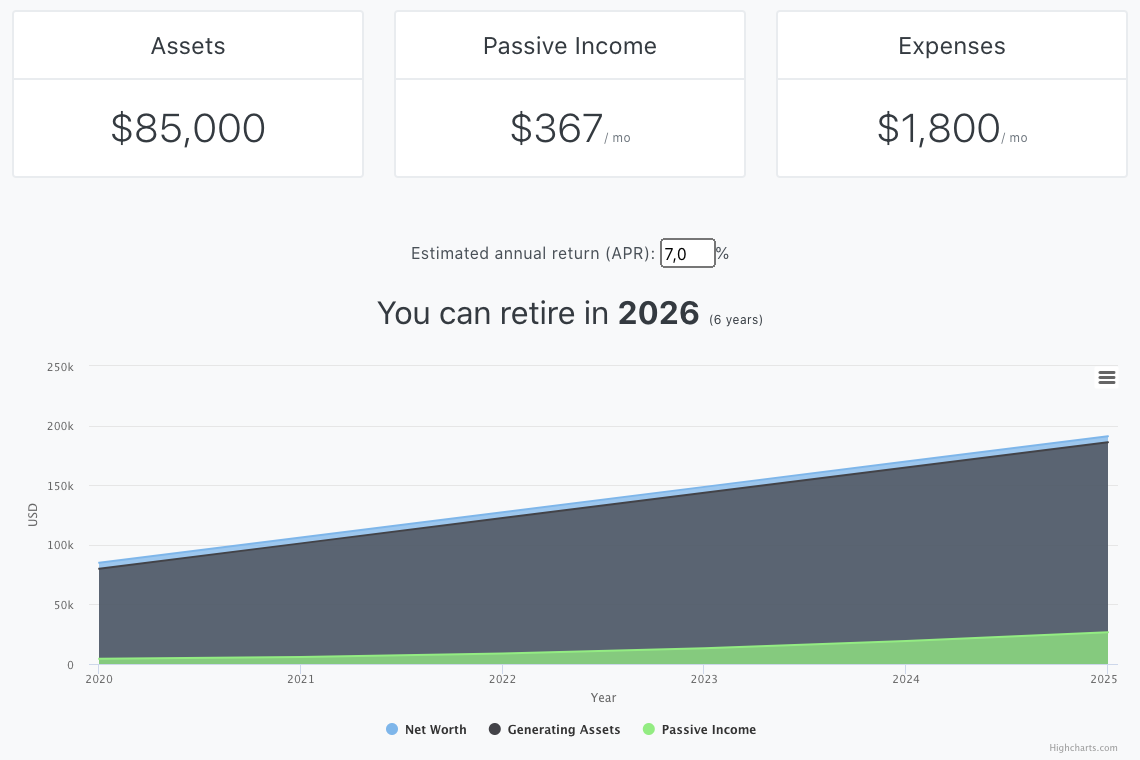
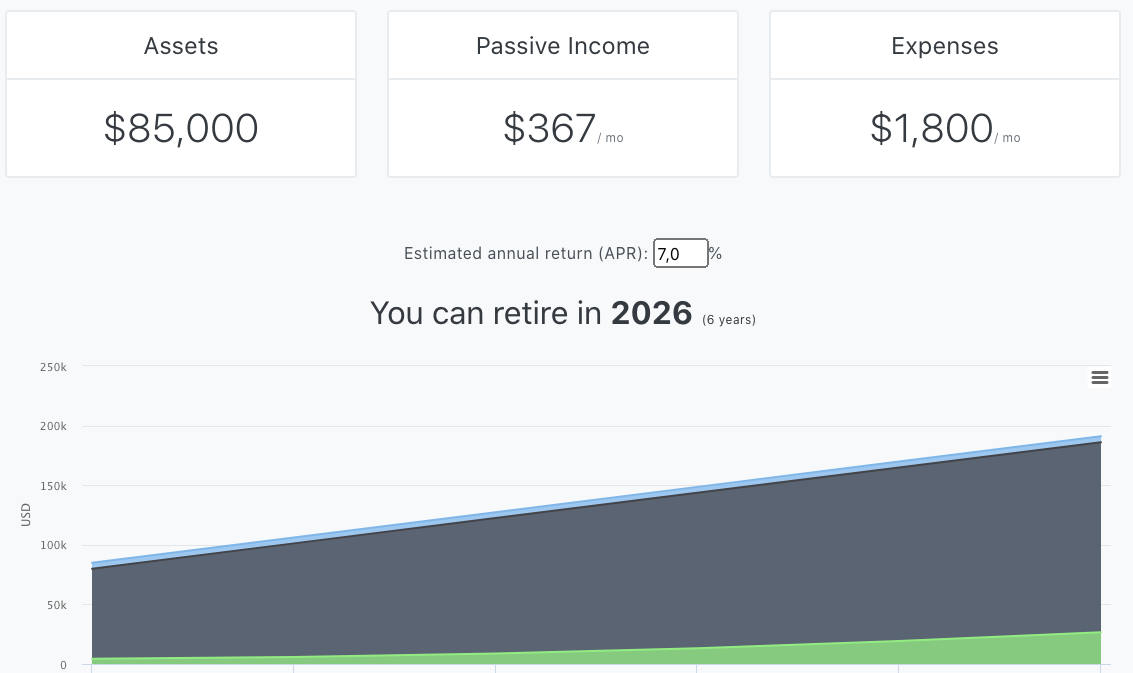
updates

diff --git a/views/partials/projects.html b/views/partials/projects.html
@@ -10,7 +10,7 @@
           <p class="subtitle-a">
             <p>This is a list with most notable <strong>personal</strong> projects.</p>
             For projects that I worked on as a consultant,
-            <br />you can check out <a href="/assets/pdf/Ionut_Moraru_Resume_2020.pdf">my resume</a> or <a href="#contact">contact me</a>.
+            <br />you can check out <a href="/assets/pdf/Adrian_Moraru_Resume_2020.pdf">my resume</a> or <a href="#contact">contact me</a>.
           </p>
           <div class="line-mf"></div>
         </div>
@@ -19,9 +19,9 @@
     <div class="row">
       <div class="col-md-4">
         <div class="work-box">
-          <a href="/assets/img/personal-finance-1.png" data-lightbox="gallery-mf">
+          <a href="/assets/img/personal-finance-4.png" data-lightbox="gallery-mf">
           <div class="work-img">
-            <img src="/assets/img/personal-finance-1.png" alt="" class="img-fluid">
+            <img src="/assets/img/personal-finance-4.png" alt="" class="img-fluid">
           </div>
           </a>
           <div class="work-content">

diff --git a/views/partials/intro.html b/views/partials/intro.html
@@ -7,10 +7,13 @@
         <h1 class="intro-title mb-4">Hi, I'm Adrian</h1>
         <p class="intro-subtitle"><span class="text-slider-items">Full Stack Developer,DevOps Engineer,Blockchain Developer</span><strong class="text-slider"></strong></p>
         <p class="pt-3">
-            <div class="about-img">
-                <img src="/assets/img/avatar4.jpg" class="img-fluid rounded b-shadow-a" alt="" style="height:80px!important" />
-            </div>
-            <!--<a class="btn btn-primary btn js-scroll px-4" href="/assets/pdf/Ionut_Moraru_Resume_2020.pdf" target="_blank" role="button">View Resume (CV)</a>-->
+          <div class="about-img">
+            <a href="/assets/img/avatar4.jpg" data-lightbox="gallery-mf">
+              <div class="work-img">
+                <img src="/assets/img/avatar4.jpg" class="img-fluid rounded b-shadow-a" alt="" style="height:100px!important" />
+              </div>
+            </a>
+          </div>
         </p>
       </div>
     </div>

diff --git a/views/partials/about.html b/views/partials/about.html
@@ -14,7 +14,7 @@
                 </div>
                 <div class="col-sm-6 col-md-7">
                   <div class="about-info">
-                    <p><span class="title-s">Name: </span> <span>Ionut Moraru</span></p>
+                    <p><span class="title-s">Name: </span> <span>Adrian Moraru</span></p>
                     <p><span class="title-s">Profile: </span> <span>Software Developer</span></p>
                     <p><span class="title-s">Email: </span> <span><a href="mailto:morion4000@gmail.com">morion4000@gmail.com</a></span></p>
                   </div>
@@ -92,6 +92,9 @@
                     <li>Internet of things</li>
                   </ul>
                 </p>
+
+                <br />
+                <a class="btn btn-primary btn js-scroll px-4" href="/assets/pdf/Adrian_Moraru_Resume_2020.pdf" target="_blank" role="button">View Resume (CV)</a>
               </div>
             </div>
           </div>

diff --git a/views/partials/avatar.html b/views/partials/avatar.html
@@ -7,7 +7,7 @@
           <div class="testimonial-box">
             <div class="author-test">
               <img src="/assets/img/avatar4.jpg" alt="" class="rounded-circle b-shadow-a" style="height:200px">
-              <span class="author">Ionut Moraru</span>
+              <span class="author">Adrian Moraru</span>
             </div>
             <div class="content-test">
               <p class="description lead">
